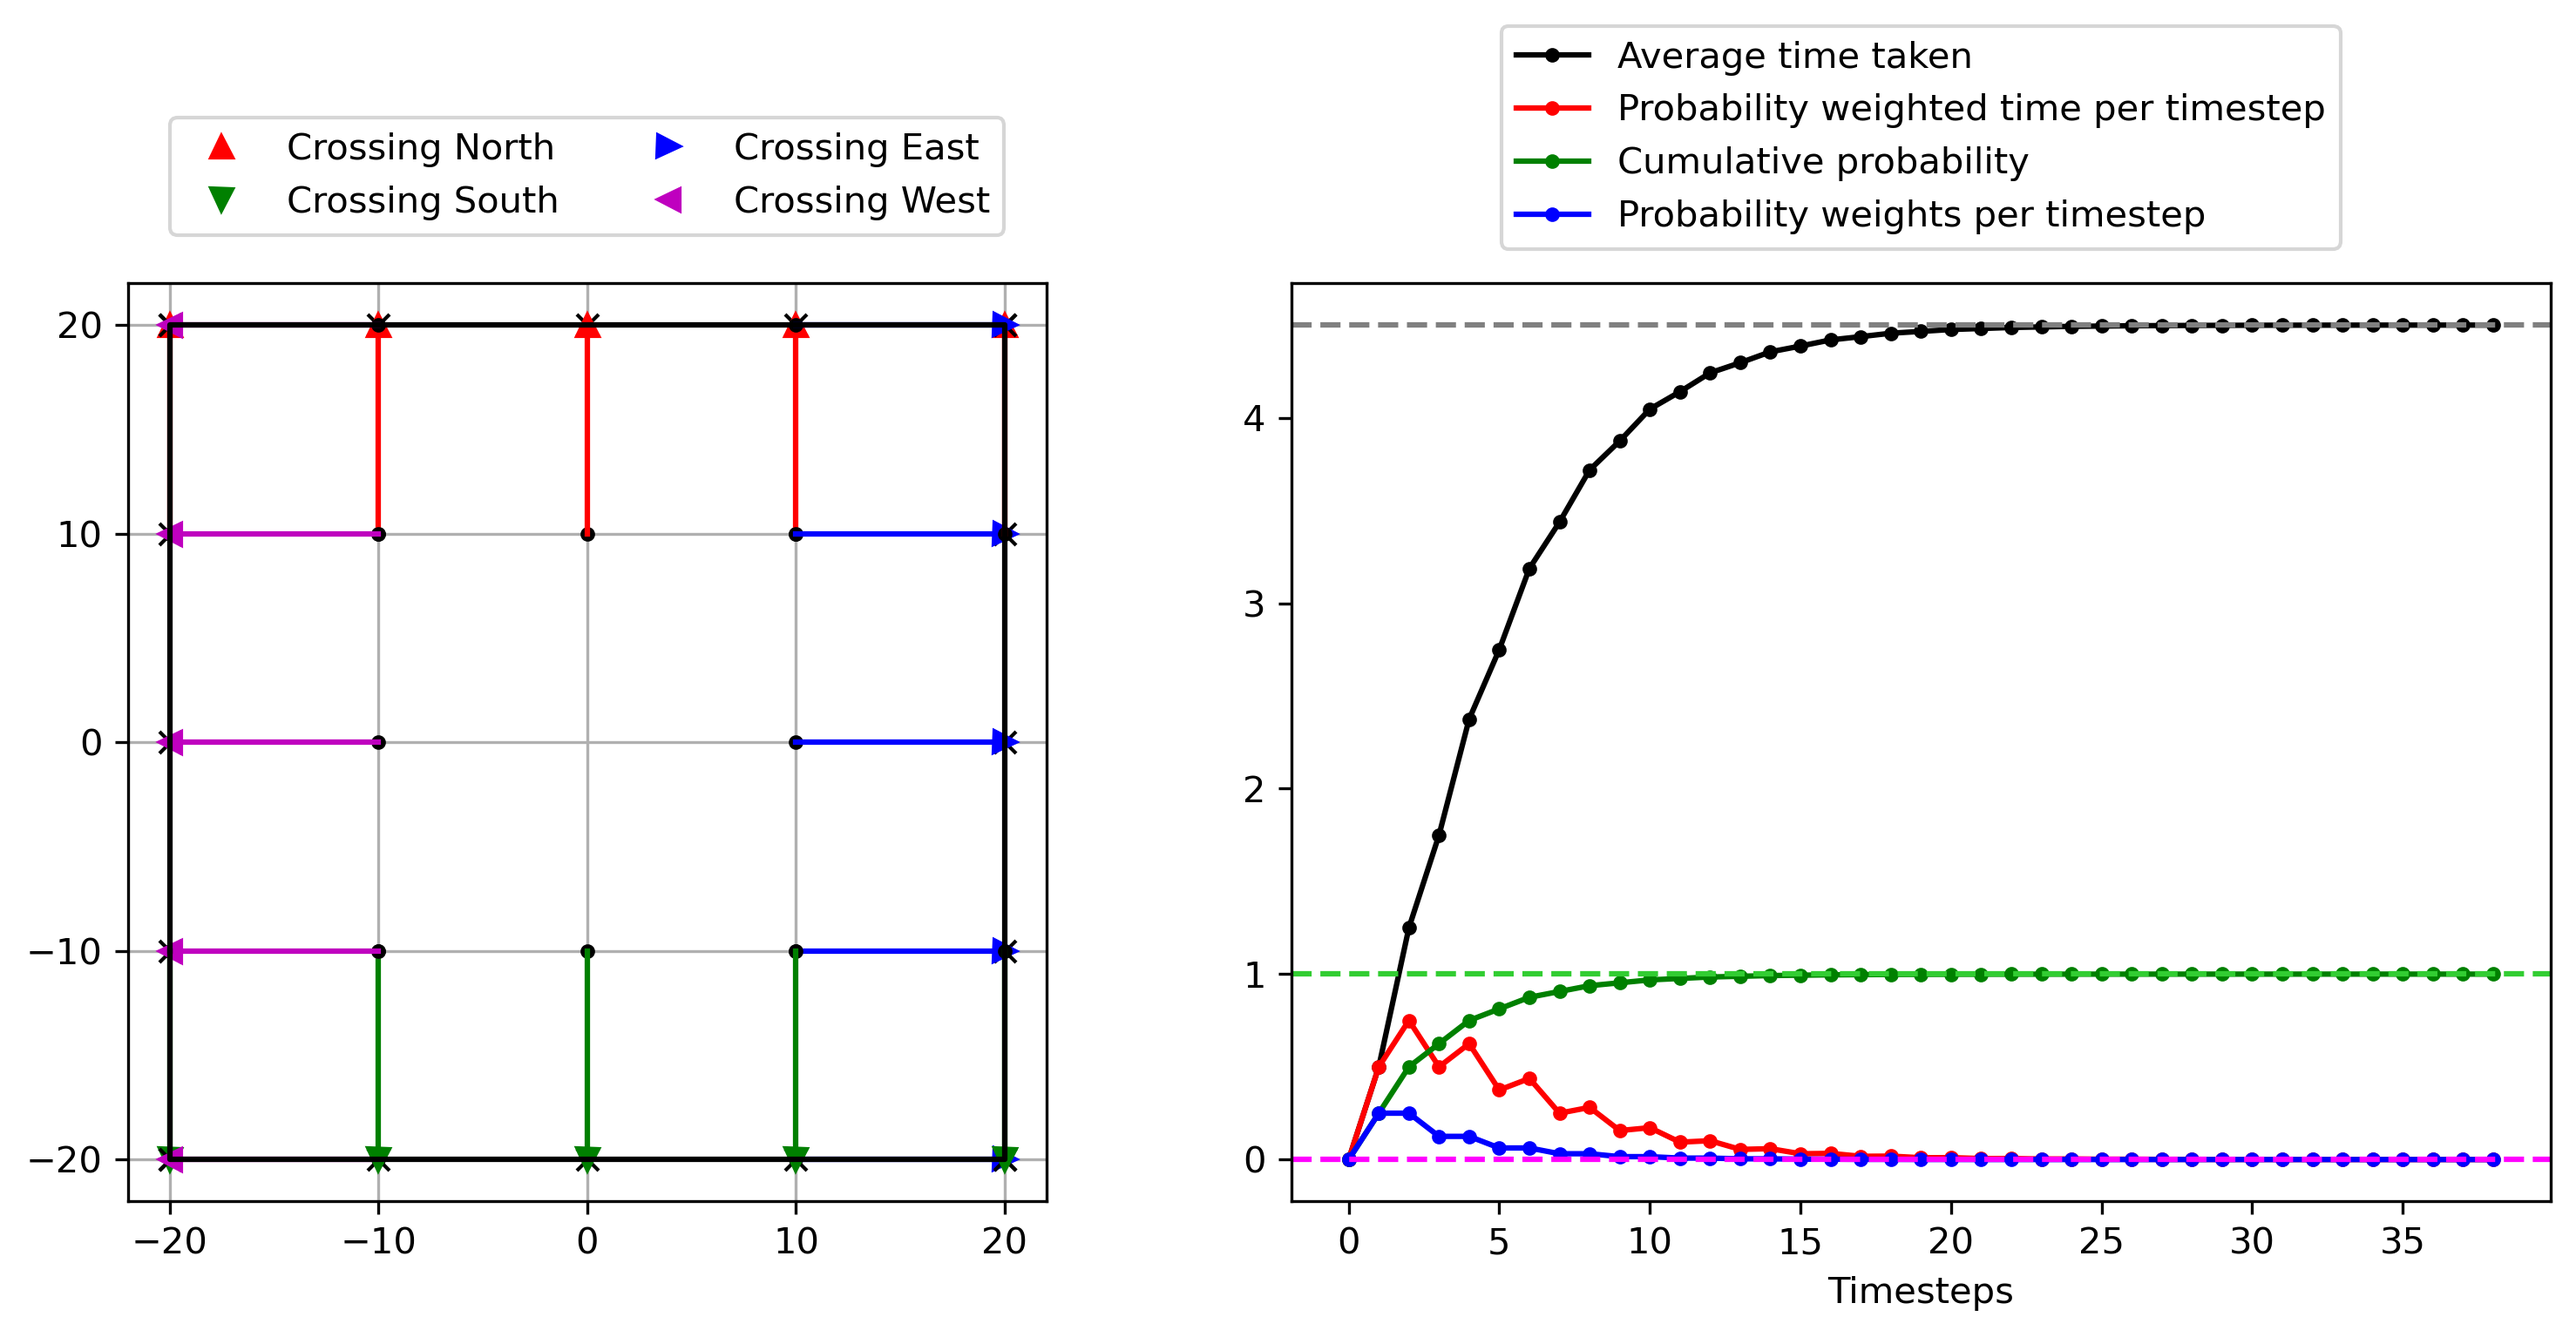
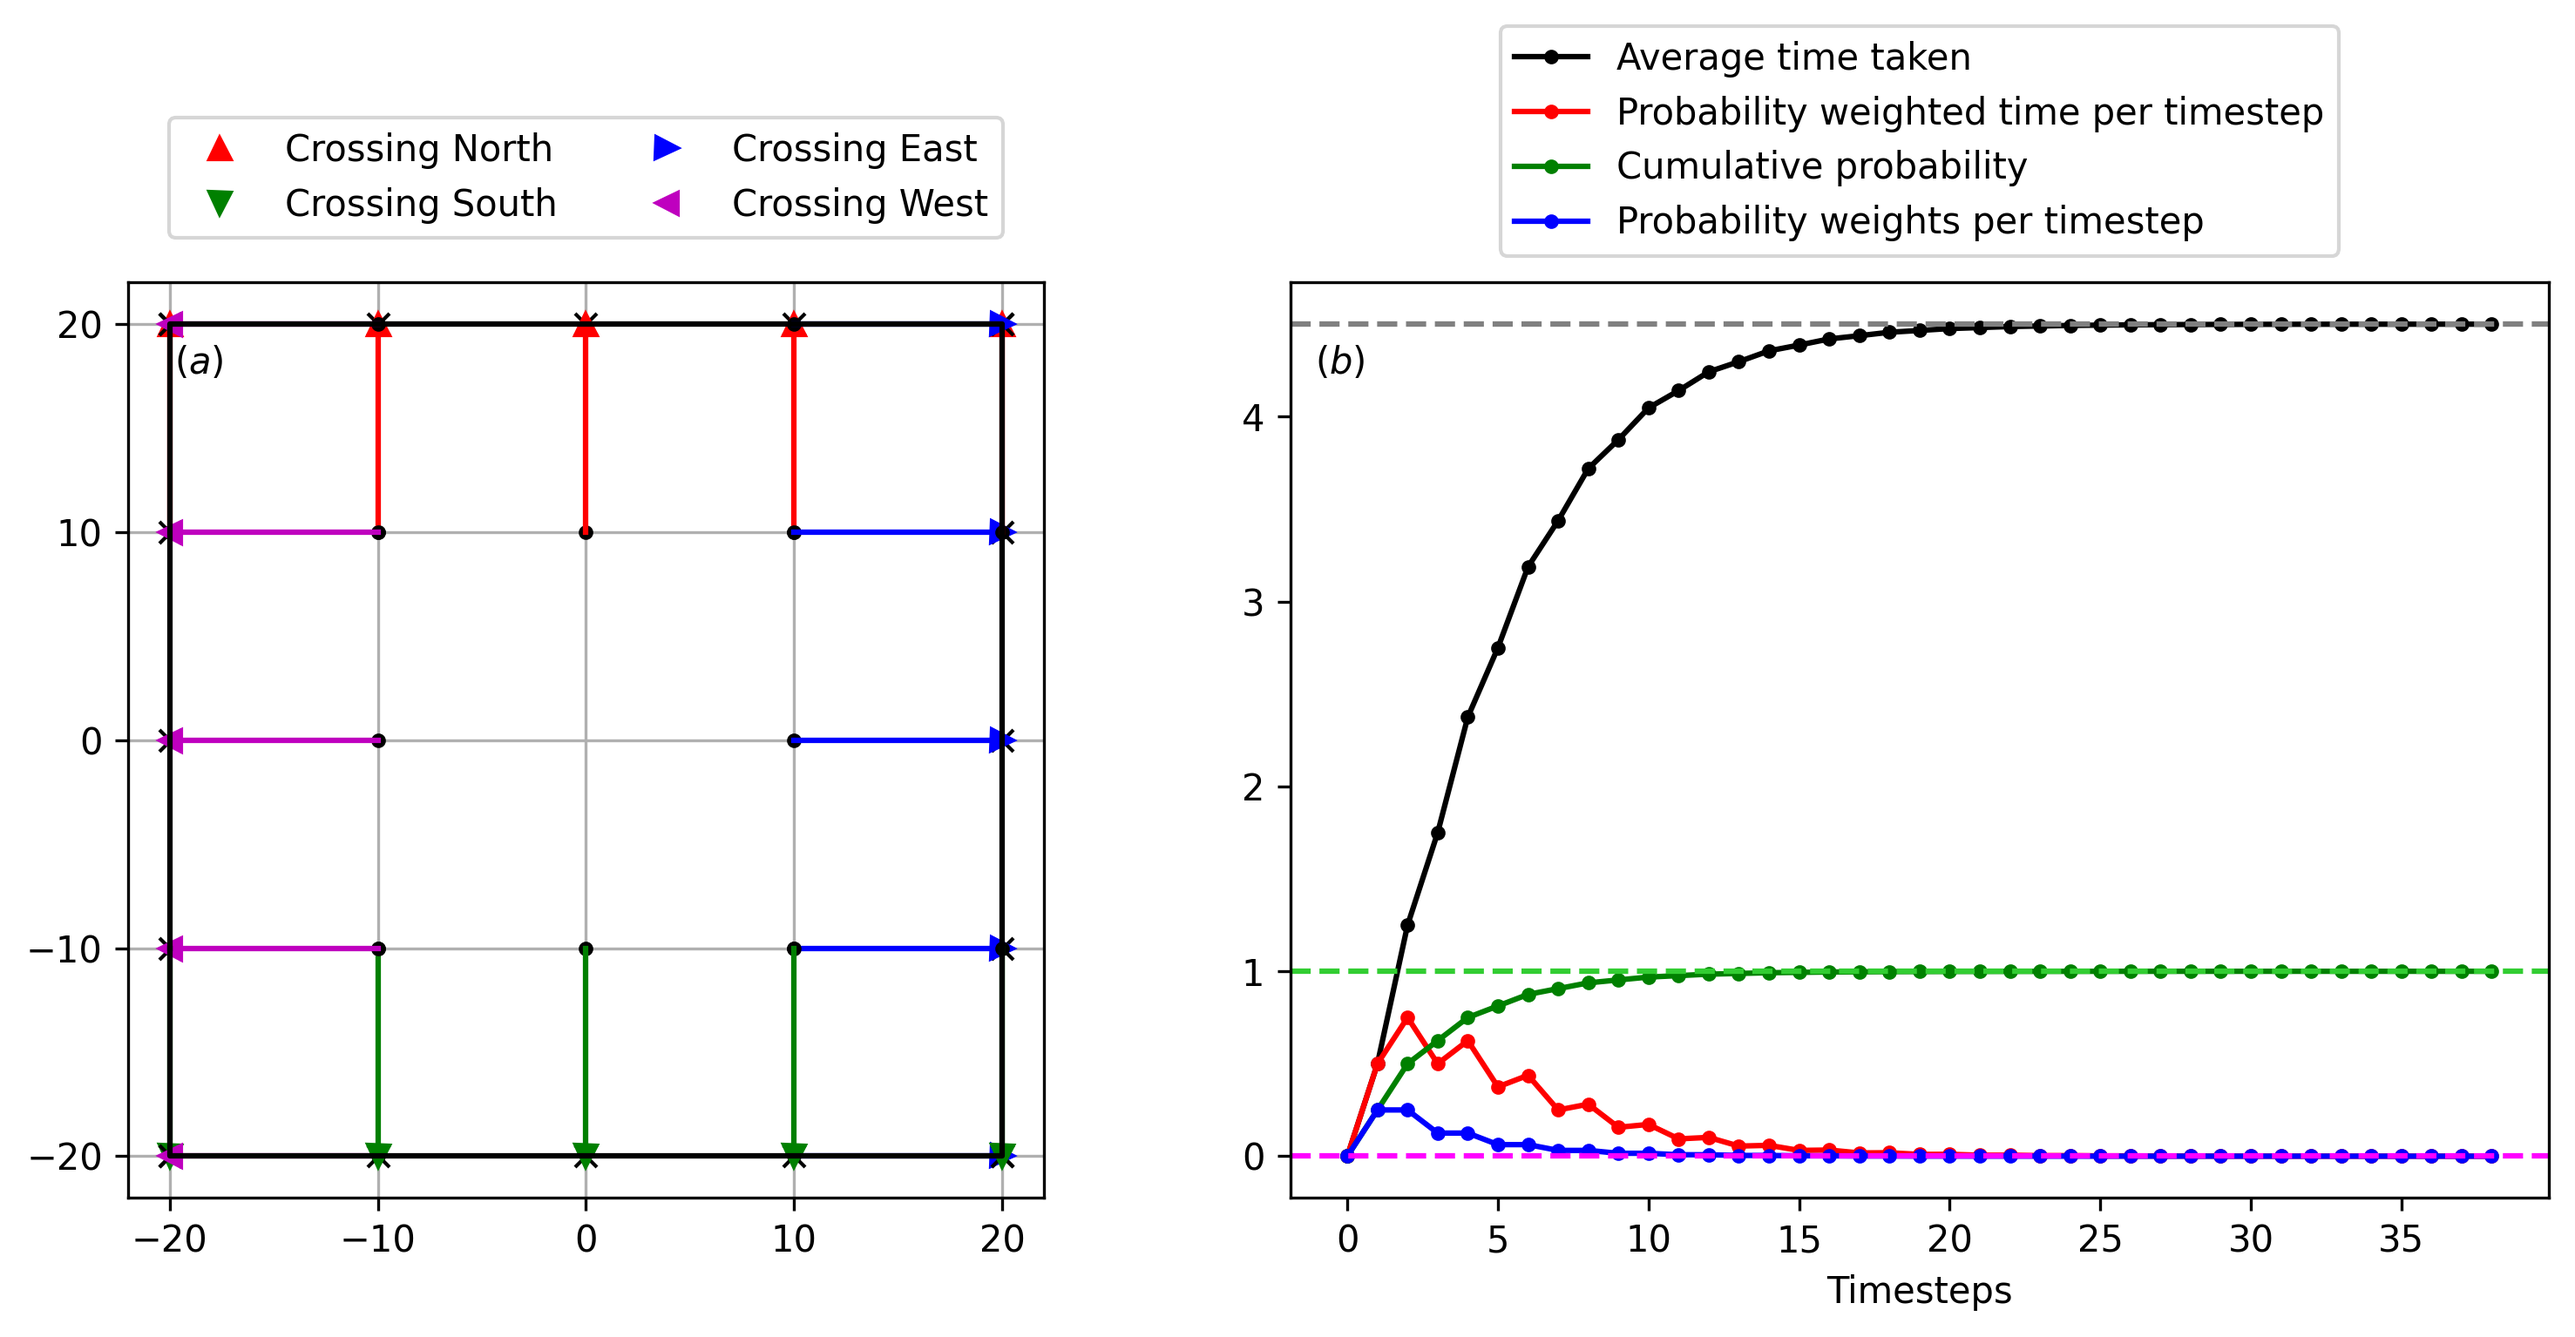
Add files via upload
Improved version with files for solution tex document

diff --git a/Code/functions.py b/Code/functions.py
@@ -156,6 +156,7 @@ def boundary_polynomial(polynomial,speed):
         idx = yroots[:,0]==pos[0]
         dst = np.array([np.min(np.abs(yroots[idx,1] - sta[1]))])
         distance  = np.append(distance,dst,axis=0)
+        # distance  = np.append(distance,np.array([1.0]),axis=0)
     direction = np.append(direction,np.full([positions.shape[0]],'N'),axis=0)
 
     print(boundary.shape,distance.shape,direction.shape)
@@ -170,6 +171,7 @@ def boundary_polynomial(polynomial,speed):
         idx = yroots[:,0]==pos[0]
         dst = np.array([np.min(np.abs(yroots[idx,1] - sta[1]))])
         distance  = np.append(distance,dst,axis=0)
+        # distance  = np.append(distance,np.array([1.0]),axis=0)
     direction = np.append(direction,np.full([positions.shape[0]],'S'),axis=0)
     
     print(boundary.shape,distance.shape,direction.shape)
@@ -184,6 +186,7 @@ def boundary_polynomial(polynomial,speed):
         idx = xroots[:,1]==pos[1]
         dst = np.array([np.min(np.abs(xroots[idx,0] - sta[0]))])
         distance  = np.append(distance,dst,axis=0)
+        # distance  = np.append(distance,np.array([1.0]),axis=0)
     direction = np.append(direction,np.full([positions.shape[0]],'E'),axis=0)
     
     Z1  = np.pad((Z[:,1:]-Z[:,:-1]),((0,0),(0,1)),'constant',constant_values=0) # West
@@ -196,6 +199,7 @@ def boundary_polynomial(polynomial,speed):
         idx = xroots[:,1]==pos[1]
         dst = np.array([np.min(np.abs(xroots[idx,0] - sta[0]))])
         distance  = np.append(distance,dst,axis=0)
+        # distance  = np.append(distance,np.array([1.0]),axis=0)
     direction = np.append(direction,np.full([positions.shape[0]],'W'),axis=0)
 
     return(origin,bounds,probability,boundary,distance,direction)
@@ -280,4 +284,19 @@ def plot_boundary(axs,boundary,distance,direction,speed):
     axs.plot([],[],'b>',label='Crossing East')
     axs.plot([],[],'m<',label='Crossing West')
 
+    return()
+
+def plot_probability(axs,bounds,probability,speed):
+
+    x = speed*np.arange(bounds[0,0],bounds[0,1]+1)
+    y = speed*np.arange(bounds[1,0],bounds[1,1]+1)
+
+    for i,xi in enumerate(x):
+        for j,yj in enumerate(y):
+            p = probability[j,i]
+            q = p.as_integer_ratio()
+            if (p>0): 
+                if (p<1) : axs.text(xi,yj,'{}{}{}{}{}'.format(r'$\frac{',q[0],'}{',q[1],'}$'),horizontalalignment='center',verticalalignment='center')
+                if (p==1): axs.text(xi,yj,'1',horizontalalignment='center',verticalalignment='center')
+            
     return()

diff --git a/Code/question2.py b/Code/question2.py
@@ -1,0 +1,56 @@
+from functions import *
+
+speed = 10
+steps = 1000
+bound = speed*(steps)
+
+alphabet = 'abcdefghijklmnopqrstuvwxyz'
+
+origin,bounds,probability,boundary,distance,direction = boundary_type1(bound,speed)
+
+fig,axs = pl.subplots(1,3,figsize=(10,4),constrained_layout=True)
+
+axs[0].set_xscale('log')
+axs[0].set_yscale('log')
+axs[0].set_xlabel('time [s]')
+axs[0].set_ylabel('probability of ants finding food\nat given time')
+axs[0].text(0.02,0.95,'$(a)$',transform=axs[0].transAxes,bbox=dict(facecolor='white', edgecolor='none', boxstyle='round'))
+
+axs[1].set_xscale('log')
+# axs[1].set_yscale('log')
+axs[1].set_xlabel('time [s]')
+axs[1].set_ylim(0,1)
+axs[1].set_ylabel('cumulative probability of ants\nwhich have found food')
+axs[1].text(0.02,0.95,'$(b)$',transform=axs[1].transAxes,bbox=dict(facecolor='white', edgecolor='none', boxstyle='round'))
+
+axs[2].set_xscale('log')
+axs[2].set_yscale('log')
+axs[2].set_xlabel('time [s]')
+axs[2].set_ylabel('mean time for ants to find food')
+axs[2].text(0.02,0.95,'$(c)$',transform=axs[2].transAxes,bbox=dict(facecolor='white', edgecolor='none', boxstyle='round'))
+
+ttot = 0
+ptot = 0
+for iteration in range(1,steps+1):
+
+    psum = 0
+    pold = 1
+    for i in range(2*steps):
+        p,q = probability[i,-i].as_integer_ratio()
+        psum += probability[i,-i]
+        probability[i,-i:] = 0
+
+    ttot += psum*iteration
+    ptot += psum
+
+    if (psum!=0): 
+        prat = (psum/pold)
+        pold = psum
+        
+        axs[0].plot(iteration,psum,'k.')
+        axs[1].plot(iteration,ptot,'k.')
+        axs[2].plot(iteration,ttot,'k.')
+
+    probability,weighted_time,probability_weights = advance_timstep(probability,origin,boundary,distance,direction,iteration)
+    
+pl.savefig('question2.png',bbox_inches='tight',dpi=300)

diff --git a/Code/figure2.py b/Code/figure2.py
@@ -1,0 +1,43 @@
+from functions import *
+
+from functions import *
+
+speed = 10
+steps = 6
+bound = 30
+
+alphabet = 'abcdefghijklmnopqrstuvwxyz'
+
+origin,bounds,probability,boundary,distance,direction = boundary_type1(bound,speed)
+
+fig,axs = pl.subplots(2,3,figsize=(10,6),constrained_layout=True)
+
+for i,ax in enumerate(axs.flatten()):
+    ax.set_xlim(speed*bounds[0,0],speed*bounds[0,1])
+    ax.set_ylim(speed*bounds[1,0],speed*bounds[1,1])
+    ax.xaxis.set_major_locator(MultipleLocator(speed))
+    ax.yaxis.set_major_locator(MultipleLocator(speed))
+    ax.text(0.01,0.95,'$({})$'.format(alphabet[i]),transform=ax.transAxes)
+    ax.set_title('Time = {}s'.format(i))
+    ax.grid()
+    ax.set_aspect(1)
+
+for iteration in range(1,steps+1):
+
+    ax = axs[(iteration-1)//3,(iteration-1)%3]
+    ax.plot([-(bound-speed),(bound-speed)],[(bound-speed),(bound-speed)],color='blue',linestyle=':')
+    ax.plot([-(bound-speed),(bound-speed)],[-(bound-speed),-(bound-speed)],color='blue',linestyle=':')
+    ax.plot([-(bound-speed),-(bound-speed)],[-(bound-speed),(bound-speed)],color='blue',linestyle=':')
+    ax.plot([(bound-speed),(bound-speed)],[-(bound-speed),(bound-speed)],color='blue',linestyle=':')
+    plot_probability(ax,bounds,probability,speed)
+
+    probability[:,1] = 0
+    probability[:,-2] = 0
+    probability[1,:] = 0
+    probability[-2,:] = 0
+    
+    probability,weighted_time,probability_weights = advance_timstep(probability,origin,boundary,distance,direction,iteration)
+    
+    print("Iterations = {}".format(iteration))
+
+pl.savefig('fig2.png',bbox_inches='tight',dpi=300)

diff --git a/Code/question3.py b/Code/question3.py
@@ -36,6 +36,7 @@ ax1.xaxis.set_major_locator(MultipleLocator(speed))
 ax1.yaxis.set_major_locator(MultipleLocator(speed))
 ax1.grid()
 ax1.set_aspect(1)
+ax1.text(0.01,0.95,'$(a)$',transform=ax1.transAxes)
 ax1.legend(ncol=2,loc='upper center',bbox_to_anchor=(0.5,1.2))
 
 # pl.show()
@@ -70,7 +71,9 @@ while ((abs(1-total_weight)>=toler) and (iteration<=steps)):
         ax2.axhline(total_time,color='gray',linestyle='--')
         ax2.axhline(total_weight,color='limegreen',linestyle='--')
         ax2.axhline(0,color='magenta',linestyle='--')
+        ax2.set_ylim(ymax=total_time+1)
         ax2.set_xlabel('Timesteps')
+        ax2.text(0.01,0.95,'$(b)$',transform=ax2.transAxes)
         ax2.legend(loc='upper center',bbox_to_anchor=(0.5,1.3))
         pl.savefig('question3.png',bbox_inches='tight',dpi=300)
 
@@ -80,4 +83,15 @@ while ((abs(1-total_weight)>=toler) and (iteration<=steps)):
         print("Iterations = {}".format(iteration))
         print()
 
+    # fff,aaa = pl.subplots(1,1)
+    # aaa.set_aspect(1)
+    # aaa.grid()
+    # aaa.set_xlim(speed*(bounds[0,0]-1),speed*(bounds[0,1]+1))
+    # aaa.set_ylim(speed*(bounds[1,0]-1),speed*(bounds[1,1]+1))
+    # aaa.xaxis.set_major_locator(MultipleLocator(speed))
+    # aaa.yaxis.set_major_locator(MultipleLocator(speed))
+    # plot_polynomial(aaa,polynomial,bounds,speed)
+    # plot_probability(aaa,bounds,probability,speed)
+    # fff.savefig('Q3/{}.png'.format(iteration),dpi=300)
+    # pl.close(fff)
 

diff --git a/Code/figure3.py b/Code/figure3.py
@@ -1,0 +1,38 @@
+from functions import *
+
+from functions import *
+
+speed = 10
+steps = 6
+bound = speed*(steps)
+
+alphabet = 'abcdefghijklmnopqrstuvwxyz'
+
+origin,bounds,probability,boundary,distance,direction = boundary_type1(bound,speed)
+
+fig,axs = pl.subplots(2,3,figsize=(12,8),constrained_layout=True)
+
+for i,ax in enumerate(axs.flatten()):
+    ax.set_xlim(speed*bounds[0,0],speed*bounds[0,1])
+    ax.set_ylim(speed*bounds[1,0],speed*bounds[1,1])
+    ax.xaxis.set_major_locator(MultipleLocator(speed))
+    ax.yaxis.set_major_locator(MultipleLocator(speed))
+    ax.text(0.01,0.95,'$({})$'.format(alphabet[i]),transform=ax.transAxes)
+    ax.set_title('Time = {}s'.format(i))
+    ax.grid()
+    ax.set_aspect(1)
+
+for iteration in range(1,steps+1):
+
+    ax = axs[(iteration-1)//3,(iteration-1)%3]
+    ax.plot([-bound,bound],[bound+speed,-bound+speed],color='blue',linestyle=':')
+    plot_probability(ax,bounds,probability,speed)
+
+    for i in range(2*steps):
+        probability[i,-i:] = 0
+    
+    probability,weighted_time,probability_weights = advance_timstep(probability,origin,boundary,distance,direction,iteration)
+    
+    print("Iterations = {}".format(iteration))
+
+pl.savefig('fig3.png',bbox_inches='tight',dpi=300)

diff --git a/Code/figure1.py b/Code/figure1.py
@@ -1,0 +1,34 @@
+from functions import *
+
+from functions import *
+
+speed = 10
+steps = 6
+bound = speed*(steps)
+
+alphabet = 'abcdefghijklmnopqrstuvwxyz'
+
+origin,bounds,probability,boundary,distance,direction = boundary_type1(bound,speed)
+
+fig,axs = pl.subplots(2,3,figsize=(12,8),constrained_layout=True)
+
+for i,ax in enumerate(axs.flatten()):
+    ax.set_xlim(speed*bounds[0,0],speed*bounds[0,1])
+    ax.set_ylim(speed*bounds[1,0],speed*bounds[1,1])
+    ax.xaxis.set_major_locator(MultipleLocator(speed))
+    ax.yaxis.set_major_locator(MultipleLocator(speed))
+    ax.text(0.01,0.95,'$({})$'.format(alphabet[i]),transform=ax.transAxes)
+    ax.set_title('Time = {}s'.format(i))
+    ax.grid()
+    ax.set_aspect(1)
+
+for iteration in range(1,steps+1):
+
+    ax = axs[(iteration-1)//3,(iteration-1)%3]
+    plot_probability(ax,bounds,probability,speed)
+    
+    probability,weighted_time,probability_weights = advance_timstep(probability,origin,boundary,distance,direction,iteration)
+    
+    print("Iterations = {}".format(iteration))
+
+pl.savefig('fig1.png',bbox_inches='tight',dpi=300)

diff --git a/Code/question1.py b/Code/question1.py
@@ -18,6 +18,7 @@ ax1.xaxis.set_major_locator(MultipleLocator(speed))
 ax1.yaxis.set_major_locator(MultipleLocator(speed))
 ax1.grid()
 ax1.set_aspect(1)
+ax1.text(0.05,0.9,'$(a)$',transform=ax1.transAxes)
 ax1.legend(ncol=2,loc='upper center',bbox_to_anchor=(0.5,1.2))
 
 time_array = []
@@ -49,6 +50,7 @@ while ((abs(1-total_weight)>=toler) and (iteration<=steps)):
         ax2.axhline(total_weight,color='limegreen',linestyle='--')
         ax2.axhline(0,color='magenta',linestyle='--')
         ax2.set_xlabel('Timesteps')
+        ax2.text(0.02,0.9,'$(b)$',transform=ax2.transAxes)
         ax2.legend(loc='upper center',bbox_to_anchor=(0.5,1.3))
         pl.savefig('question1.png',bbox_inches='tight',dpi=300)
 
